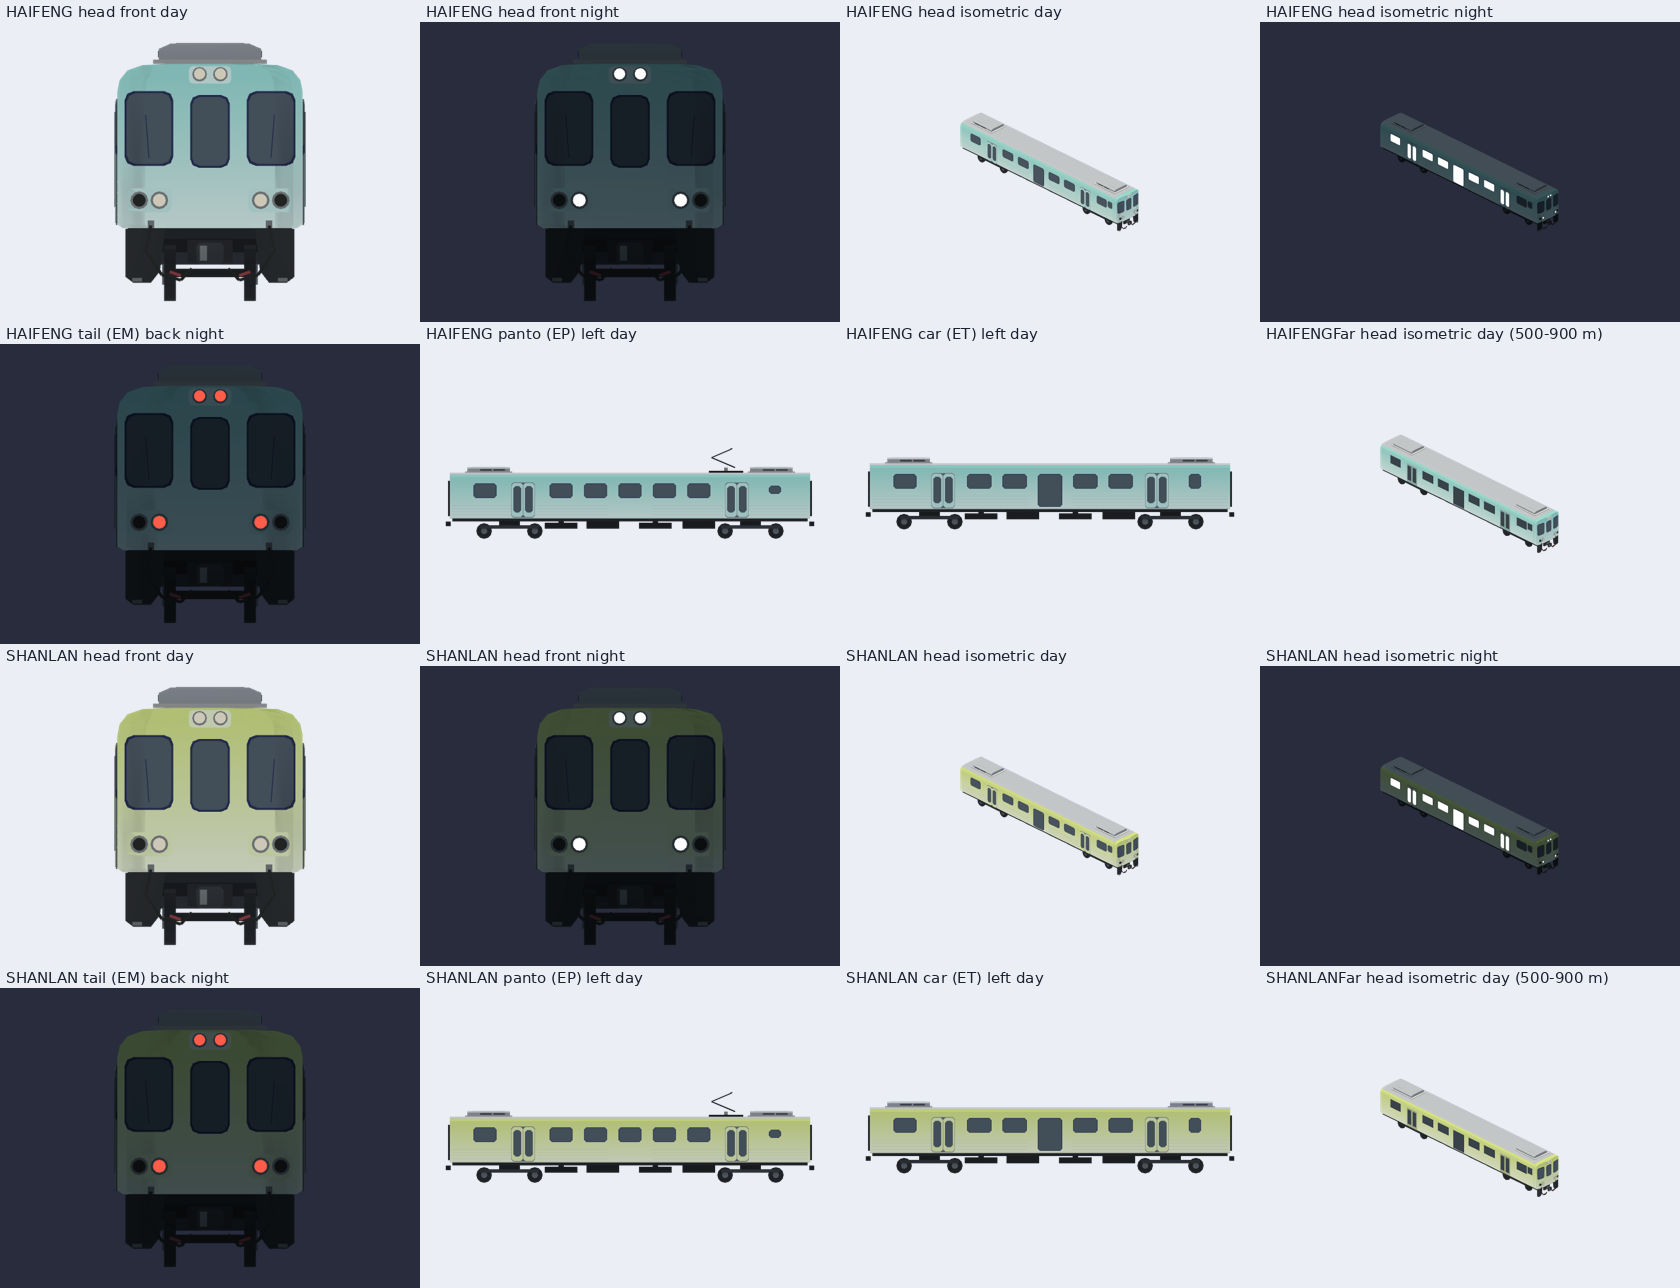
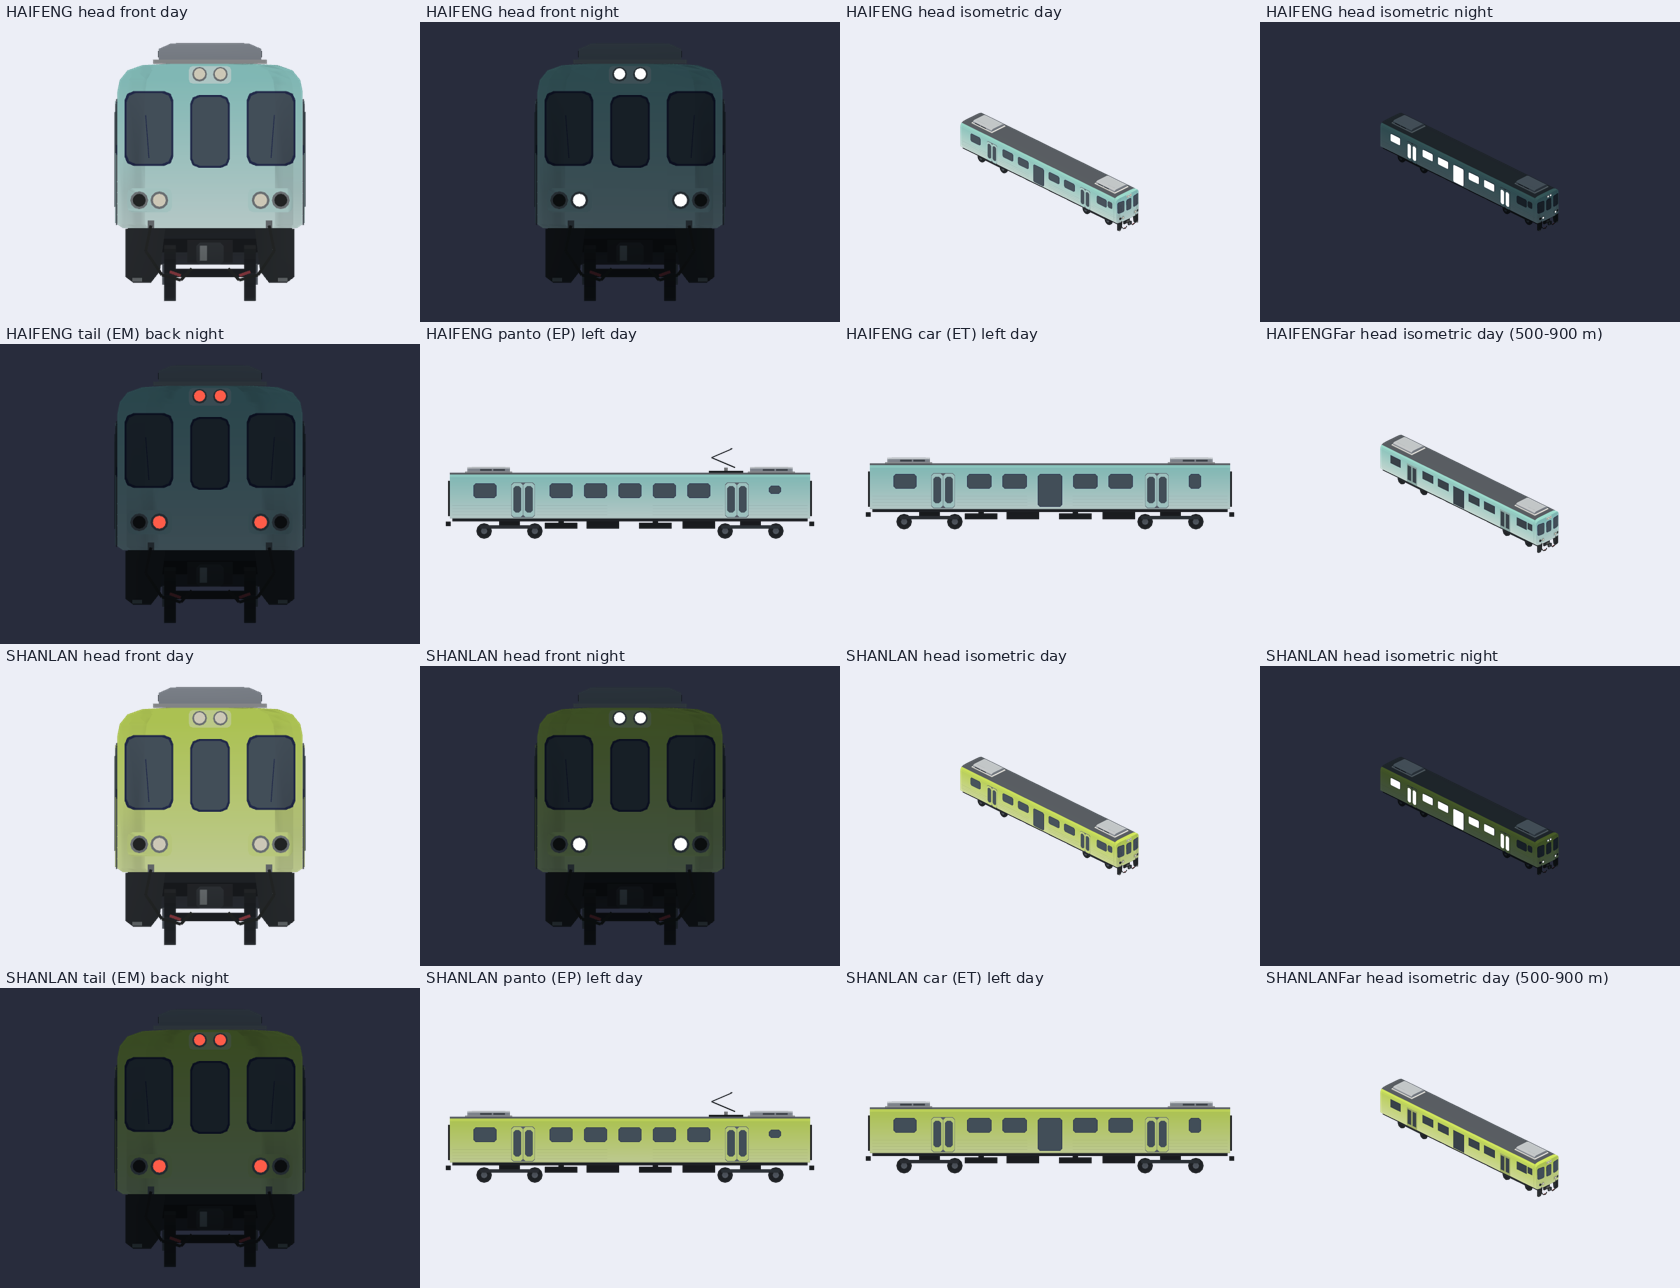
Tourism EMU500: dark grey roof, lime Shan-Lan (decision 554)
Game planning reviewed the first screenshots and asked for the two
photo differences decision 554 listed: the roof shell is now the trains'
own dark grey (the shared roof colour is untouched), and the Shan-Lan's
gradient moves to the real train's lime so its cab end no longer reads
olive. Only the two fleets' 16 study units and 16 set cars change hash.

Claude-Session: https://claude.ai/code/session_01JMHz9ZhYemmTbhuhceziKS

diff --git a/Sources/GamePresentation/Map3DTourismEMU500.swift b/Sources/GamePresentation/Map3DTourismEMU500.swift
@@ -8,6 +8,10 @@ public enum Map3DTourismEMU500 {
     public static let order: [Unit] = [.emc, .ep, .et, .em]
     public static let centres: [Float] = [30.495,10.165,-10.165,-30.495]
     public static let rotations: [Float] = [0,0,0,.pi]
+    /// Decision 554: the roof shell's dark grey, as in the photographs of
+    /// both trains (the EMU500's light grey roof was not repainted lighter;
+    /// the air conditioners' covers stay the baseline's).
+    static let roof = Map3DColor.rgb(0x5A5F65)
     public static func model(_ fleet: Fleet, _ unit: Unit, far: Bool = false) -> Map3DModelPack.Model {
         var b = StationKitBuilder()
         b.tourismEMU500(fleet,unit,far:far)
@@ -22,8 +26,10 @@ public enum Map3DTourismEMU500 {
     /// These are painted derivatives, not the baseline's warm white/turquoise livery.
     static func paint(_ fleet: Fleet, _ height: Float, _ x: Float = 0) -> UInt32 {
         let t=max(0,min(1,(height-1.15)/2.3))
-        let low: [Float] = fleet == .haifeng ? [225,244,232] : [242,246,213]
-        let high: [Float] = fleet == .haifeng ? [160,224,211] : [220,233,136]
+        // Decision 554: the Shan-Lan's lime from its photographs; the paler,
+        // greyer pair read olive on the cab's end under the front light.
+        let low: [Float] = fleet == .haifeng ? [225,244,232] : [236,246,168]
+        let high: [Float] = fleet == .haifeng ? [160,224,211] : [214,236,96]
         let channels=(0..<3).map { UInt32((low[$0]*(1-t)+high[$0]*t).rounded()) }
         return 0xff000000 | channels[0] | channels[1]<<8 | channels[2]<<16
     }
@@ -122,7 +128,7 @@ extension StationKitBuilder {
         for i in section.indices {
             let p=section[i],q=section[(i+1)%section.count]
             let panel=[Map3DPoint(a,p.0,p.1),Map3DPoint(b,p.0,p.1),Map3DPoint(b,q.0,q.1),Map3DPoint(a,q.0,q.1)]
-            if min(p.0,q.0)>=3.55 { face(panel,inside:Map3DPoint(0,2.2,0),color:Map3DEMU500.roofColor) }
+            if min(p.0,q.0)>=3.55 { face(panel,inside:Map3DPoint(0,2.2,0),color:Map3DTourismEMU500.roof) }
             else { tourismPaintFace(panel,inside:Map3DPoint(0,2.2,0),fleet:fleet) }
         }
         if cab {

diff --git a/Tests/GamePresentationTests/Map3DModelPackLockTests.swift b/Tests/GamePresentationTests/Map3DModelPackLockTests.swift
@@ -55,7 +55,7 @@ final class Map3DModelPackLockTests: XCTestCase {
     func testTheOrderAndTheLampsAreAsBefore() {
         let pack = Map3DModelPack.standard
         XCTAssertEqual(Self.digest(pack.models.map(\.name)), "a45cd4f034dbc9ed")
-        XCTAssertEqual(Self.digest(pack.models.map { $0.name + " " + Self.hash($0) }), "ee488a664c04e50d")
+        XCTAssertEqual(Self.digest(pack.models.map { $0.name + " " + Self.hash($0) }), "6deadedde2b161e8")
         let lamps = pack.lights.keys.sorted().map { index -> String in
             let car = pack.lights[index]!
             let vertices = car.front.head + car.front.tail + car.back.head + car.back.tail

diff --git a/docs/decisions/554.md b/docs/decisions/554.md
@@ -27,21 +27,25 @@ Codex 的 #1539（producer `0e2f38a2`）做了海風號 EMU573、山嵐號 EMU58
 | 近景一列（四節） | — | 22,220 三角形（EMC／EM 各 8,076，EP 2,936，ET 3,132） |
 | 遠景一列（四節） | — | 9,120 三角形（EMC／EM 各 3,420，EP 1,116，ET 1,164） |
 
-`hashes.lock.json` 只多 32 行（`set-HAIFENG*`、`set-SHANLAN*` 與它們的 `light-` 窗模型）；鎖裡原有的 908 個模型雜湊逐位元相同（`tools/train-models/run.sh … --lock` 重新匯出對照，0 個改變、0 個刪除）。`Map3DModelPackLockTests.testTheOrderAndTheLampsAreAsBefore` 的四個摘要更新（新 set 在最後，加 16 組燈：304 → 320）；把新 set 濾掉後，模型順序、雜湊、每節的燈與窗模型（以名字對）、方向幕在 main e7cb277 與這個分支上的摘要完全相同（`eaba9cce…`、`7fa2bcfd…`、燈 304 組 `4f20e2e8…`、`a422495a…`，用一個暫時的測試各跑一次，沒有提交）。- 列車展示（決策 434，`Map3DShowcase.catalog`）在藍皮解憂號後面加兩列：海風號、山嵐號，固定四節（`testEveryNearSetIsInTheCatalogOnce` 要求每個近景 set 都在目錄裡）。名字用遊戲原有的（`DisplayText` 的「海風號」「山嵐號」）。
+`hashes.lock.json`：多 32 行（`set-HAIFENG*`、`set-SHANLAN*` 與它們的 `light-` 窗模型）；因為上面的車頂與山嵐號配色，#1539 的 16 個 studies 單元（`haifeng-emu500-*`、`shanlan-emu500-*`）雜湊也跟著變。其餘 892 個模型的雜湊逐位元相同（`tools/train-models/run.sh … --lock` 重新匯出對照：只有這 16＋16 個改變，0 個刪除；`light-` 窗模型沒有變，只有窗玻璃）。`Map3DModelPackLockTests.testTheOrderAndTheLampsAreAsBefore` 的四個摘要更新（新 set 在最後，加 16 組燈：304 → 320）；把新 set 濾掉後，模型順序、雜湊、每節的燈與窗模型（以名字對）、方向幕在 main e7cb277 與這個分支上的摘要完全相同（`eaba9cce…`、`7fa2bcfd…`、燈 304 組 `4f20e2e8…`、`a422495a…`，用一個暫時的測試各跑一次，沒有提交）。- 列車展示（決策 434，`Map3DShowcase.catalog`）在藍皮解憂號後面加兩列：海風號、山嵐號，固定四節（`testEveryNearSetIsInTheCatalogOnce` 要求每個近景 set 都在目錄裡）。名字用遊戲原有的（`DisplayText` 的「海風號」「山嵐號」）。
 - `studies` 裡 #1539 的單元與配置不動（工具與雜湊鎖讀）。（預算、遠景版同框、遠景單節不到近景一半）。
 
 ## 外觀（照片對照）
 
-對照 Blair 攝影實錄（`docs/art/tourism-emu500/sources.json` 的 observed_files，只本機看，不提交）：正面三窗封門、上方雙頭燈、下方左右成對圓燈、深色下裙與連結器、兩組入口門、中央落地窗、EP 單臂弓都對得上，比例與窗沒有明顯錯，所以接上。兩處差異記在下一步，不在這個 PR 改（改配方會動 studies 的雜湊，也還沒有作者對外觀的意見）：
+對照 Blair 攝影實錄（`docs/art/tourism-emu500/sources.json` 的 observed_files，只本機看，不提交）：正面三窗封門、上方雙頭燈、下方左右成對圓燈、深色下裙與連結器、兩組入口門、中央落地窗、EP 單臂弓都對得上，比例與窗沒有明顯錯，所以接上。
 
-1. 實車車頂是深灰，模型是淺灰。
-2. 山嵐號實車是亮的黃綠，模型在正面光下（車頭端面）偏橄欖綠；側面接近。
+照片對照有兩處差異。遊戲規劃（pro 暫代）看過第一版截圖後，要求在同一個 PR 修掉（`Map3DTourismEMU500.swift`）：
+
+1. **車頂改深灰**：兩款實車的車頂都是深灰，模型原本用一般 EMU500 共用的淺灰（`Map3DTrainStyle.roofColour` #C5C9CD）。改成兩款自己的 `Map3DTourismEMU500.roof`（#5A5F65），只換車殼頂面；冷氣罩照舊是淺色，照片裡也是淺色。共用色票不動，一般 EMU500 不受影響。
+2. **山嵐號往實車的黃綠調**：原本的漸層（下 #F2F6D5 → 上 #DCE988）偏淡偏灰，車頭端面在正面光下讀成橄欖綠。改成下 #ECF6A8 → 上 #D6EC60。車頭和車身側面用同一個漸層，所以兩邊一起變。海風號不動。
+
+`#5A5F65` 不會被當成玻璃（`isShade` 要求不比玻璃色亮過 1.02 倍、各色版比例一致），也不會被當成不鏽鋼（這兩款不在 `stainlessSets`）。
 
 ## 五方理由
 
 - 玩家：買了海風號、山嵐號，3D 裡看到的是它自己（海水藍綠、黃綠、三窗車頭），不再是一般通勤車。
-- 鐵道迷：用的是實車改造的四車編組（EMC EP ET EM）、EP 上的單臂弓與兩端各自的頭燈／尾燈；車頂顏色與山嵐車頭色相待修（上面兩點）。
-- 開發：只加四個 set，放在最後；既有 908 個模型的雜湊不變，模型包多 7.9 MB 一份。
+- 鐵道迷：用的是實車改造的四車編組（EMC EP ET EM）、EP 上的單臂弓與兩端各自的頭燈／尾燈；車頂照實車改深灰，山嵐號照實車調成黃綠。
+- 開發：只加四個 set，放在最後；只動 #1539 自己的配方，其他 892 個模型的雜湊不變；模型包多 7.9 MB 一份。
 - 美術：照 rolling-stock skill：配方的遠景版、同框、顏色子集，夜裡窗與燈照決策 449 亮。
 - 音樂：無。
 
@@ -52,4 +56,6 @@ Codex 的 #1539（producer `0e2f38a2`）做了海風號 EMU573、山嵐號 EMU58
 
 ## 下一步
 
-- 作者或遊戲規劃看過截圖後：車頂改深灰、山嵐車頭的黃綠調亮（改 `Map3DTourismEMU500.paint` 與車頂色；studies 與 set 的雜湊一起變，PR 逐項說明）。
+- 作者在實機上看外觀：`*-status.json` 的 appearance 仍是 UNVERIFIED。
+- 車頭沒有頭標（實車正面中央有「海風」「山嵐」字樣）。照 #1539 的界線不畫字，要不要另做，等作者決定。
+- 海風號的下半部比照片淡一些（照片幾乎是整片薄荷綠）。遊戲規劃沒有要求修，先記著。

diff --git a/docs/HANDOFF.md b/docs/HANDOFF.md
@@ -490,7 +490,7 @@
   3. REV1698 的 P3-1：`followsRealTimetable(l.train) || followsRealTimetable(x.train)` 那一處。
   4. 其他 UI 測試也設 `OS_ACTIVITY_DT_MODE=NO`（#1717 只改了兩支）。MENUSTALL（#1712）查到：選單打開後的長停頓是 XCTest 自己的查詢把 log 同步寫到 stderr，實機不會；剩下 1.8–3.0 s 是系統第一次做的事（無障礙 bundle、聽寫設定、Simulator 的 Metal 編 pipeline），不是 App 的程式。查別的停頓加 Debug 啟動參數 `-ui-test-stall-stacks` 看 trace；不要在 dyld 的載入回呼（`_dyld_register_func_for_add_image`）裡做事，試過 App 啟動就卡住。
   5. 海風號、山嵐號接上專用模型（`Map3DTourismEMU500` 已在模型包，沒接進 `Map3DTrainSet`）；Opus、rolling-stock skill、第三級截圖。
-     → TOURMODEL（決策 554，`claude/tourism-emu500-3d`）接上：`set-HAIFENG…`、`set-SHANLAN…` 近景與遠景。外觀仍等作者接受；照片對照的兩點（車頂實車深灰、山嵐車頭在正面光下偏橄欖）寫在 `docs/decisions/554.md` 下一步。
+     → TOURMODEL（決策 554，`claude/tourism-emu500-3d`）接上：`set-HAIFENG…`、`set-SHANLAN…` 近景與遠景。遊戲規劃看過截圖後，車頂改深灰、山嵐號調成黃綠（同一個 PR）；外觀仍等作者在實機接受，其餘寫在 `docs/decisions/554.md` 下一步。
   6. 「關於／資料來源」頁加「© 2026 a91453 著作權所有」。
 - **等作者的**：出口合規與 `ITSAppUsesNonExemptEncryption`（上面）；實機看 3D 回 2D 後 Menu 按不按得到、108.1 切回前景後有沒有聲音、和別的 App 的音樂能不能一起放；E1（上架前演示模式改編譯旗標，要動 `testflight.yml` 參數需作者同意）；KLRT、BUILD3D、STALL97；新運具先做纜車，再渡輪，飛機最後（`docs/research/GEO_SCENE_REFERENCE_2026-10-20.md` §6）。
 - **玩家問答**（2026-11-02）：「雙線雙向，列車都只在同一軌來回」：回覆「路線 → 進階」每一段可選進路；中間站兩條軌都要有月台；新遊戲靠左行車；還是一樣就「回報問題」附存檔。

diff --git a/docs/art/tourism-emu500/README.md b/docs/art/tourism-emu500/README.md
@@ -1,5 +1,7 @@
 # 臺鐵海風號／山嵐號 EMU500 改造 studies
 
+> **2026-11-02，決策 554**：兩款已接進營運（`set-HAIFENG…`、`set-SHANLAN…`，近景與遠景，[operating-554.png](operating-554.png)）。改了兩處：車頂改深灰（#5A5F65）；山嵐號的漸層改成實車的黃綠（下 #ECF6A8 → 上 #D6EC60）。所以本頁下面寫的「只增加studies」「兩款均不出現在遊戲」，以及 revision-2 素材的配色，已經不是現狀；revision-2 素材沒有重做。見 [決策 554](../../decisions/554.md)。
+
 目前為第二輪修整。兩款各自仍沒有已接受前版；上一輪交付 producer `f036e7f79279586f5831c7cb9bf9d8cce3444558` 只是未接受的前稿。
 
 真正producer：`0e2f38a244db7ea0301169cdb4b6d81f0c340a78`。素材draft [#35](https://github.com/a91453/railway-assets-private/pull/35)。
